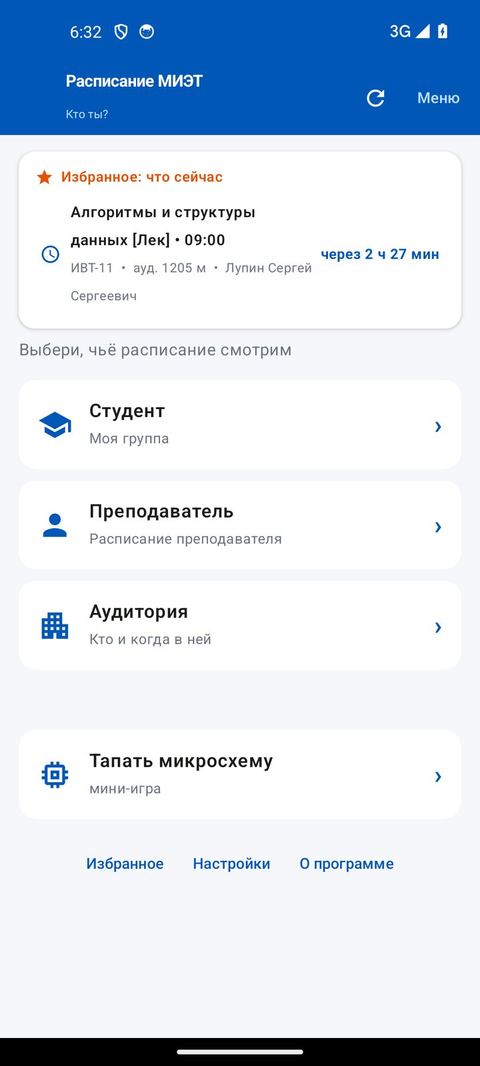
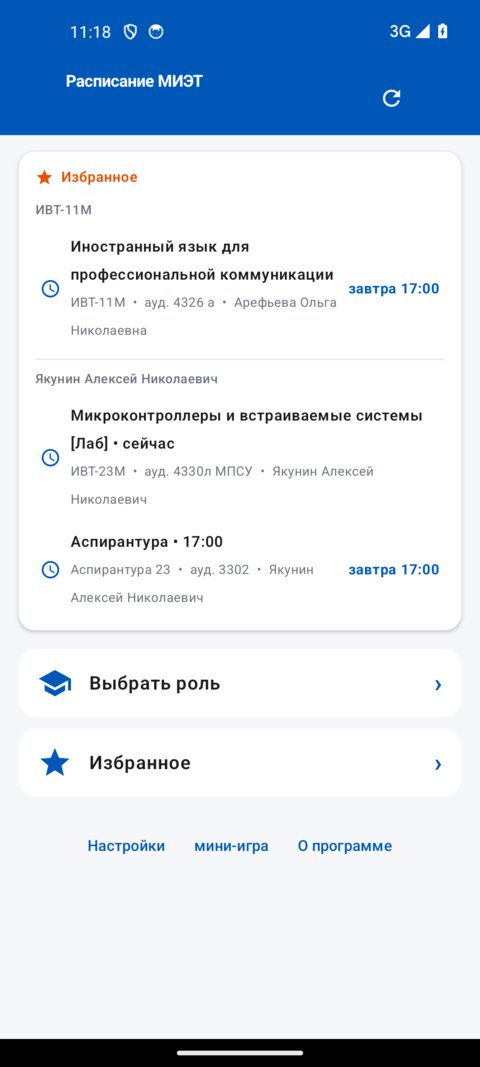
README: описание и скриншоты под интерфейс 0.64
Интерфейс изменился в 0.62–0.64, а README описывал 0.61: главной с тремя
карточками ролей больше нет, избранное стало отдельным экраном, в шапке
появился домик. Описание не совпадало с тем, что человек видит после
установки.

ЧТО ПЕРЕПИСАНО

Добавлен раздел «Главный экран»: что видно при запуске и зачем именно так —
сейчас и дальше сверху, ниже две кнопки, в самом низу служебные ссылки.

Добавлен раздел «Выбор роли»: три роли (студент, преподаватель, аудитория)
вынесены с главной на отдельный экран, роль запоминается.

Раздел «Избранное» переписан: это отдельный экран с тремя вкладками
(группы, преподаватели, аудитории), а не подпись внутри главной.

СКРИНШОТЫ

Сняты заново на устройстве с 0.64.0-alpha, на эмуляторе 1080x2400:
главная, выбор роли, расписание группы, преподаватель, аудитория,
избранное, мини-игра. Все приведены к 480 px по ширине, как и прежние.

Файл docs/06-next-lesson.jpg удалён: блок «что сейчас» теперь часть главной,
и отдельный снимок дублировал 01-main. Файлы 02-schedule, 03-teacher,
04-audience и 05-game заменены снимками в новой нумерации, чтобы номера
шли по порядку разделов.

ПРОВЕРКА

Все семь ссылок на изображения в README указывают на существующие файлы.
Диапазон на скриншоте избранного: вкладки «Группы 1», «Преподаватели 1»,
«Аудитории —» при двух записях — счётчики совпадают с заголовком.

Число групп сверено с приложением, а не с комментариями в коде: экран выбора
группы показывает «343 группы в 31 маркировке». В комментариях местами
[…]

diff --git a/README.md b/README.md
@@ -8,7 +8,24 @@
 
 ![Главный экран](docs/01-main.jpg)
 
+## Главный экран
+
+Здесь сразу видно то, ради чего приложение и открывают: что идёт сейчас и что
+дальше — предмет, аудитория, преподаватель и через сколько начнётся. Отсчёт
+обновляется сам каждую минуту.
+
+Ниже — две кнопки: **«Выбрать роль»** и **«Избранное»**. Совсем внизу —
+маленькие ссылки: настройки, мини-игра и «О программе».
+
 ## Что умеет
+
+### Выбор роли
+
+Расписание можно смотреть с трёх сторон: как **студент** (своя группа), как
+**преподаватель** (по фамилии) или как **аудитория** (по номеру помещения).
+Роль выбирается один раз и запоминается.
+
+![Выбор роли](docs/02-roles.jpg)
 
 ### Своё расписание
 
@@ -22,7 +39,7 @@
 На каждой паре видно предмет, аудиторию, преподавателя и время. Если
 аудитория меняется от пары к паре, это отмечено прямо в карточке.
 
-![Расписание группы](docs/02-schedule.jpg)
+![Расписание группы](docs/03-schedule.jpg)
 
 ### Преподаватель
 
@@ -33,7 +50,7 @@
 Список делится по буквам алфавита, у каждого имени видно, сколько пар у
 преподавателя. Имена можно добавить в избранное звёздочкой.
 
-![Поиск преподавателя](docs/03-teacher.jpg)
+![Поиск преподавателя](docs/04-teacher.jpg)
 
 ### Аудитория
 
@@ -44,18 +61,14 @@
 свободны на выбранной паре. На каждой видно, занята ли она сейчас, и если
 пара идёт — сколько минут осталось.
 
-![Аудитории](docs/04-audience.jpg)
+![Аудитории](docs/05-audience.jpg)
 
 ### Избранное
 
-Группы, преподаватели и аудитории, отмеченные звёздочкой, собираются в
-одном экране.
+Группы, преподаватели и аудитории, отмеченные звёздочкой, собираются на
+отдельном экране — на трёх вкладках, по одной на роль.
 
-На главном экране всегда видно, что происходит сейчас и что дальше: предмет,
-аудиторию, преподавателя и сколько осталось ждать. Отсчёт обновляется сам
-каждую минуту.
-
-![Что сейчас](docs/06-next-lesson.jpg)
+![Избранное](docs/06-favorites.jpg)
 
 ### Работает без интернета
 
@@ -76,7 +89,7 @@
 обновляется сама. Сброс по понедельникам в 09:00. Нужен интернет: результат
 должен быть настоящим.
 
-![Мини-игра](docs/05-game.jpg)
+![Мини-игра](docs/07-game.jpg)
 
 ### Обновления
 
